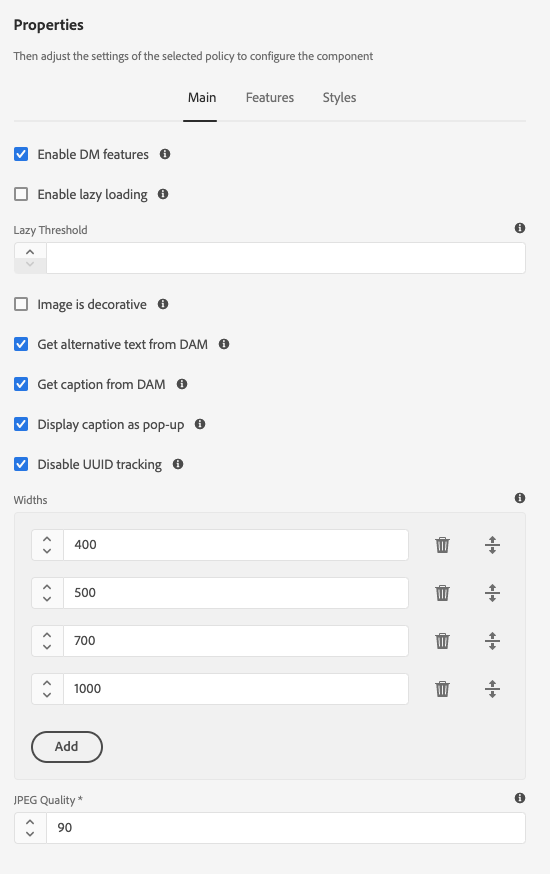
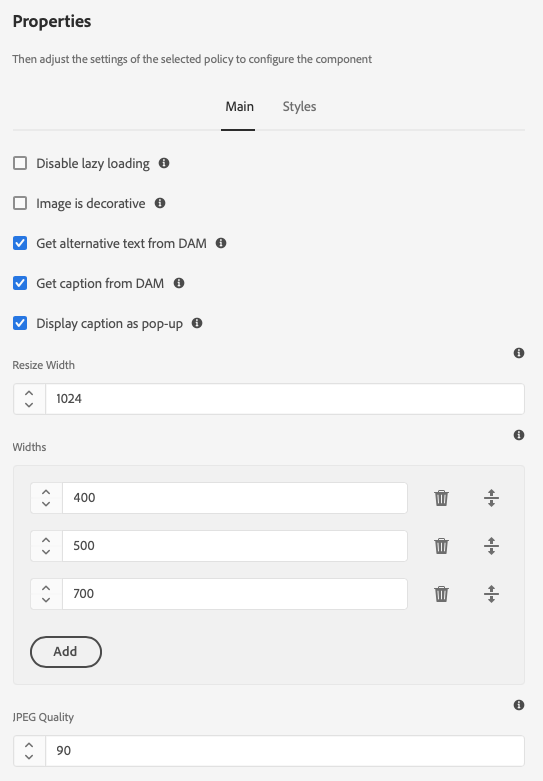
Image changes

diff --git a/help/components/image.md b/help/components/image.md
@@ -12,7 +12,7 @@ The Core Component Image Component is an adaptive image component that features 
 
 The Image Component features adaptive image selection and responsive behavior with lazy loading for the page visitor as well as easy image placement and cropping for the content author.
 
-The image widths as well as cropping and additional settings can be defined by the template author in the [design dialog](#design-dialog). The content editor can upload or select assets in the [configure dialog](#configure-dialog) and crop the image in the [edit dialog](#edit-dialog). For added convenience, simple in-place modification of the image is also available.
+The image widths and additional settings can be defined by the template author in the [design dialog](#design-dialog). The content editor can upload or select assets in the [configure dialog.](#configure-dialog)
 
 ## Version and Compatibility {#version-and-compatibility}
 
@@ -74,7 +74,7 @@ The Image Component supports [schema.org microdata](https://schema.org).
 
 ## Configure Dialog {#configure-dialog}
 
-In addition to the standard [edit dialog](#edit-dialog) and [design dialog](#design-dialog), the image component offers a configure dialog where the image itself is defined along with its description and basic properties.
+The image component offers a configure dialog where the image itself is defined along with its description and basic properties.
 
 ### Asset Tab {#asset-tab}
 
@@ -127,88 +127,24 @@ Use the drop-down to select the styles that you want to apply to the component. 
 
 Styles must be configured for this component in the [design dialog](#design-dialog) in order for the drop down menu to be available.
 
-## Edit Dialog {#edit-dialog}
-
-The edit dialog allows the content author to crop, modify the launch map, and zoom the image.
-
->[!NOTE]
->
->Cropping, rotating, and zoom features do not apply to Dynamic Media assets. If the [Dynamic Media features](#dynamic-media) are enabled, any such editing to Dynamic Media assets should be performed through the [Configure Dialog.](#configure-dialog)
-
-![Image Component's edit dialog](/help/assets/image-edit.png)
-
-* Start Crop
-
-  ![Start crop icon](/help/assets/image-start-crop.png)
-
-  Selecting this option opens a drop-down for pre-defined crop proportions.
-
-  * Choose the option **Free Hand** to define your own crop.
-  * Choose the option **Remove Crop** to display the original asset.
-
-  Once a crop option is selected, use the blue handles to size the crop on the image.
-
-  ![Crop options](/help/assets/image-crop-options.png)
-
-* Rotate Right
-
-  ![Rotate right icon](/help/assets/image-rotate-right.png)
-
-  Use this option to rotate the image 90° to the right (clockwise).
-
-* Flip Horizontally
-
-  ![Flip horizontally icon](/help/assets/image-flip-horizontal.png)
-
-  Use this option to to flip the image horizontally or pivot the image 180° along the y-axis.
-
-* Flip Vertically
-
-  ![Flip vertically icon](/help/assets/image-flip-vertical.png)
-
-  Use this option to to flip the image vertically or pivot the image 180° along the x-axis.
-
-* Reset Zoom
-
-  ![Reset zoom icon](/help/assets/image-reset-zoom.png)
-
-  If the image has already been zoomed, use this option to reset the zoom level.
-
-* Open Zoom Slider
-
-  ![Open zoom slider icon](/help/assets/image-zoom.png)
-
-  Use this option to display a slider to control the zoom level of the image.
-
-  ![Zoom slider control](/help/assets/image-zoom-slider.png)
-
-The in-place editor can also be used to modify the image. Due to space limitations, only basic options are available in-line. For full edit options, use the full-screen mode.
-
-![Image in-place edit options](/help/assets/image-in-place-edit.png)
-
->[!NOTE]
->
->Image edit operations (crop, flip, rotate) are not supported for GIF images. Any such changes made in edit mode to GIFs will not be persisted.
-
 ## Design Dialog {#design-dialog}
-
-The design dialog allows the template author to define the cropping, upload, and rotation and upload options that the content author has when using this component.
-
-### Main Tab {#main-tab}
-
-On the **Main** tab you can define a list of widths in pixels for the image and the component will automatically load the most appropriate width based on browser size. This is an important part of the [responsive features](#responsive-features) of the Image Component.
-
-In addition, you can define which general component options are automatically or disabled when the author adds the component to a page.
 
 ![Image Component's design dialog main tab](/help/assets/image-design-main.png)
 
-* **Enable DM features** - When checked, the enable [Dynamic Media features](#dynamic-media) are available.
-* **Enable lazy loading** - Define if the lazy loading option is automatically enabled when adding the image component to a page.  
+* **Enable DM features** - When checked, [Dynamic Media features](#dynamic-media) are available.
+  * This option only appears when Dynamic Media is enabled in the environment.
+* **Disable lazy loading** - When checked, the component will preload all images without lazy loading.  
 * **Image is decorative** - Define if the decorative image option is automatically enabled when adding the image component to a page.
 * **Get alternative text from DAM**-  Define if the option to retrieve the alternate text from the DAM is automatically enabled when adding the image component to a page.
 * **Get caption from DAM** - Define if the option to retrieve the caption from the DAM is automatically enabled when adding the image component to a page.
 * **Display caption as pop-up** - Define if the option to display the image caption as a pop-up is automatically enabled when adding the image component to a page.
-* **Disable UUID Tracking** - Check to disable the tracking of the image asset's UUID.
+* **Resize width** - This value is used for resizing the width of the base images that are DAM assets.
+  * The aspect ratio of the images will be preserved.
+  * If the value is larger than the actual width of the image, this value will have no effect.
+  * This value has no effect on SVG images.
+
+You can define a list of widths in pixels for the image and the component will automatically load the most appropriate width based on browser size. This is an important part of the [responsive features](#responsive-features) of the Image Component.
+
 * **Widths** - Defines a list of widths in pixels for the image and the component automatically loads the most appropriate width based on browser size.
   * Tap or click the **Add** button to add another size.
     * Use the grab handles to re-arrange the order of the sizes.
@@ -220,44 +156,6 @@ In addition, you can define which general component options are automatically or
 >[!TIP]
 >
 >See the section [Adaptive Image Servlet](#adaptive-image-servlet) for more technical details on its features and tips for optimizing rendition selection by carefully defining your widths.
-
-### Features Tab {#features-tab}
-
-On the **Features** tab you can define which options are available to the content authors when using the component including upload options, orientation, and cropping options.
-
-* Source
-
-  ![Image Component's design dialog Features tab](/help/assets/image-design-features-source.png)
-
-  Select the option **Allow asset upload from file system** to allow content authors to upload images from his or her local computer. To force content authors to only select assets from AEM, de-select this option.
-
-* Orientation
-
-  ![Image Component's design dialog Features tab](/help/assets/image-design-features-orientation.png)
-
-* **Rotate**
-  Use this option to allow the content author to use the **Rotate Right** option.
-* **Flip**
-  Use this option to allow the content author to use the **Flip Horizontally** and **Flip Vertically** options.
-
-  >[!CAUTION]
-  >
-  >The **Flip** option is disabled by default. Enabling it will display the **Flip Vertically** and **Flip Horizontally** buttons in the edit dialog of the image component, however the feature is not currently supported by AEM and any changes made using these options will not be persisted.
-
-* Cropping
-
-  ![Image Component's design dialog Features tab](/help/assets/image-design-features-cropping.png)
-
-  Select the option **Allow crop** to allow the content author to crop the image in the component in the edit dialog.
-  * Click **Add** to add a pre-defined crop aspect ratio.
-  * Enter a descriptive name, which will be shown in the **Start Crop** dropdown.
-  * Enter the numerical ratio of the aspect.
-  * Use the drag handles to re-arrange the order of the aspect ratios
-  * Use the trash can icon to delete an aspect ratio.
-
-  >[!CAUTION]
-  >
-  >Note that in AEM, crop aspect ratios are defined as **height/width**. This differs from the conventional definition of width/height and is done for legacy compatibility reasons. The content authors will not be aware of any difference as long as you provide a clear name of the ratio since the name is shown in the UI and not the ratio itself.
 
 ### Styles Tab {#styles-tab-1}
 
